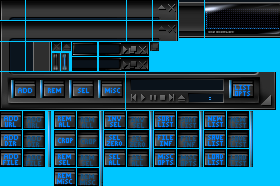
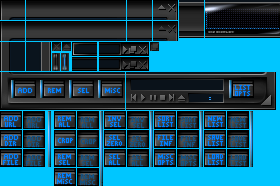
removed the previous scrollbar changes and instead editted the playlists appearance.

diff --git a/scripts/WACUPDetect.m b/scripts/WACUPDetect.m
@@ -5,8 +5,7 @@
 #include "compiler/lib/std.mi"
 #include "IsWACUP.m"
 
-Global GuiObject WAPLC;
-Global Group frameGroup, frameGroupShade, frameGroupPL;
+Global Group frameGroup, frameGroupShade;
 
 Global Layer wacupmain, wacuptitlebar, wacupshade;
 
@@ -16,14 +15,11 @@ System.onScriptLoaded(){
 
     frameGroup = getContainer("Main").getLayout("Normal");
 	frameGroupShade = getContainer("Main").getLayout("shade");
-    frameGroupPL = getContainer("PL").getLayout("normal");
 
     wacupshade = frameGroupShade.findObject("washade");
 
     wacupmain = frameGroup.findObject("mainwnd");
 	wacuptitlebar = frameGroup.findObject("wa.titlebar");
-
-	WAPLC = frameGroupPL.findObject("wasabi.list");
 
 	if(IsWACUP != 0){
 		wacupmain.setXmlParam("image", "wacup.main");
@@ -31,15 +27,11 @@ System.onScriptLoaded(){
 		wacuptitlebar.setXmlParam("inactiveimage", "wacup.titlebar.off");
 		wacupshade.setXmlParam("image", "wacup.player.shade.enabled");
 		wacupshade.setXmlParam("inactiveimage", "wacup.player.shade.disabled");
-		WAPLC.setXmlParam("x", "12");
-		WAPLC.setXmlParam("w", "-31");
 	}else{
 		wacupmain.setXmlParam("image", "wa.main");
 		wacuptitlebar.setXmlParam("image", "wa.titlebar.on");
 		wacuptitlebar.setXmlParam("inactiveimage", "wa.titlebar.off");
 		wacupshade.setXmlParam("image", "wa2.player.shade.enabled");
 		wacupshade.setXmlParam("inactiveimage", "wa2.player.shade.disabled");
-		WAPLC.setXmlParam("x", "10");
-		WAPLC.setXmlParam("w", "-15");
 	}
 }
